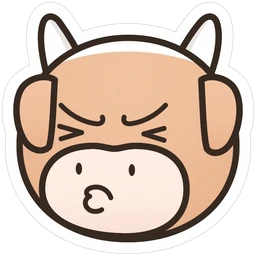
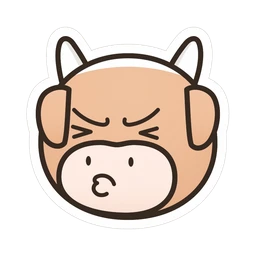
yjp-v10: 등급 도장 배지 위치, 쓰담·꿀밤 효과 위치, 고집불통 크기 맞춤

diff --git a/nbzzEbYc9KFBr3/app/style.css b/nbzzEbYc9KFBr3/app/style.css
@@ -88,7 +88,7 @@ nav.tab button.on b{opacity:1;filter:none}
 .hint{text-align:center;font-size:0.7647rem;color:var(--ph);margin-bottom:8px}
 .ph-head{text-align:center;margin-top:8px}
 .ph-head .av{position:relative;width:96px;height:96px;margin:0 auto}
-.ph-head .av img{width:104px;height:104px;object-fit:contain}
+.ph-head .av img{width:96px;height:96px;object-fit:contain}
 .ph-head .av .stamp{position:absolute;right:-8px;bottom:-4px}
 .ph-head h1{font-size:1.2941rem;margin:12px 0 2px}
 .kv{display:flex;align-items:center;justify-content:space-between;padding:14px;border-top:1px solid var(--line);min-height:50px}
@@ -160,8 +160,9 @@ button[disabled]{cursor:default;pointer-events:none}
 @keyframes bump{0%{transform:scale(1)}40%{transform:scale(1.45);color:var(--red)}100%{transform:scale(1)}}
 @media (prefers-reduced-motion:reduce){*,*:before,*:after{animation:none!important;transition:none!important}}
 
-.stampbtn{position:absolute;right:-8px;bottom:-4px;padding:0;border:0;background:none;min-width:44px;min-height:44px}
+.stampbtn{position:absolute;right:-34px;bottom:-14px;padding:0;border:0;background:none;min-width:44px;min-height:44px}
 .ph-head .av .stampbtn .stamp{position:static}
+.ph-head .av .stampbtn .stamp.big{width:44px;height:44px;font-size:.8235rem}
 .plabel{display:inline-flex;align-items:center;min-height:44px;margin-top:10px;padding:0 14px;border:0;border-radius:22px;background:#F2F2F2;color:#525252;font-size:13px;font-weight:600}
 
 .gz{position:relative;width:136px;height:136px;margin:0 auto;display:flex;align-items:center;justify-content:center;touch-action:none;user-select:none;-webkit-user-select:none}
@@ -176,11 +177,12 @@ button[disabled]{cursor:default;pointer-events:none}
 .gz.r-pat .face img{filter:saturate(1.15) brightness(1.05)}
 .gz.r-pat .fx:before{content:"◠ ◠";position:absolute;left:0;right:0;top:34%;text-align:center;font-size:20px;font-weight:700;color:#3a2a1a;letter-spacing:6px}
 .gz.r-pat .fx:after{content:"♥";position:absolute;right:-6px;top:-10px;color:#F08AA0;font-size:24px;animation:hrt 1s ease-out}
-.gz.r-pat .face{box-shadow:inset 22px 14px 0 -16px #F7B3C0, inset -22px 14px 0 -16px #F7B3C0;border-radius:50%;animation:hap 1s ease}
+.gz.r-pat .face{animation:hap 1s ease}
+.gz.r-pat .face:after{content:"";position:absolute;inset:0;background:radial-gradient(ellipse 9px 6px at 25% 60%,rgba(247,140,165,.85),rgba(247,140,165,0)),radial-gradient(ellipse 9px 6px at 75% 60%,rgba(247,140,165,.85),rgba(247,140,165,0));pointer-events:none;z-index:2}
 .gz.r-kkul .fx:before{content:"> <";position:absolute;left:0;right:0;top:34%;text-align:center;font-size:20px;font-weight:700;color:#3a2a1a;letter-spacing:8px}
 .gz.r-kkul .fx:after{content:"✦ ✧";position:absolute;left:0;right:0;top:-18px;text-align:center;color:#E0B23C;font-size:18px;animation:hrt .9s ease-out}
 .gz.r-kkul .face{animation:sq .9s ease}
-.gz.r-kkul .face:before{content:"";position:absolute;left:50%;top:-6px;width:18px;height:12px;margin-left:-9px;border-radius:50% 50% 40% 40%;background:#E9C9A6;z-index:2}
+.gz.r-kkul .face:before{content:"";position:absolute;left:50%;top:14px;width:18px;height:12px;margin-left:-9px;border-radius:50% 50% 40% 40%;background:#E9C9A6;z-index:2}
 @keyframes hap{0%,100%{transform:none}30%{transform:translateY(-4px) scale(1.03)}}
 @keyframes sq{0%,100%{transform:none}20%{transform:scale(1.06,.9)}50%{transform:scale(.98,1.02)}}
 @keyframes hrt{0%{opacity:0;transform:translateY(6px)}20%{opacity:1}100%{opacity:0;transform:translateY(-12px)}}

diff --git a/nbzzEbYc9KFBr3/app/sw.js b/nbzzEbYc9KFBr3/app/sw.js
@@ -1,4 +1,4 @@
-const C='yjp-v9';
+const C='yjp-v10';
 const F=['./','index.html','style.css','app.js','manifest.webmanifest','icon-180.png','icon-192.png','icon-512.png','fonts/Pretendard-Regular.woff2','fonts/Pretendard-Bold.woff2','emoji/hold.webp'].concat([...Array(12).keys()].map(i=>'emoji/p'+i+'.webp'));
 self.addEventListener('install',e=>{e.waitUntil(caches.open(C).then(c=>c.addAll(F)).then(()=>self.skipWaiting()))});
 self.addEventListener('activate',e=>{e.waitUntil(caches.keys().then(k=>Promise.all(k.filter(x=>x!==C).map(x=>caches.delete(x)))).then(()=>self.clients.claim()))});
